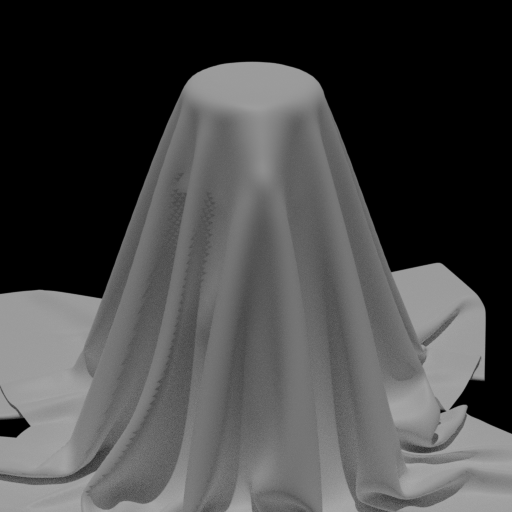
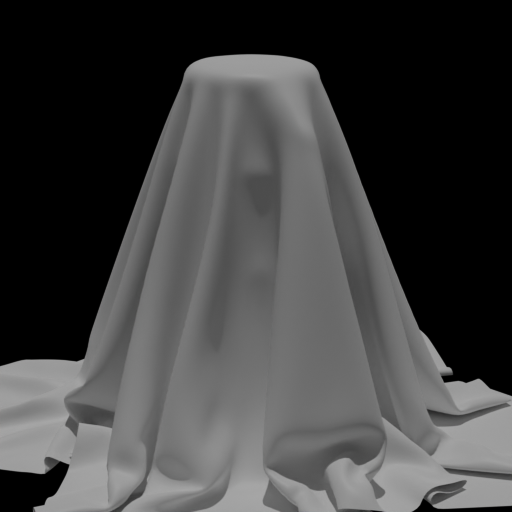
Managed to get a first working version of vertex color

Changed region(s): [[0.0, 0.0938, 1.0, 1.0], [0.0, 0.7812, 0.0938, 0.875], [0.2812, 0.2812, 0.3125, 0.3438]]

diff --git a/part2/scripts/create_rendered_image.py b/part2/scripts/create_rendered_image.py
@@ -5,9 +5,9 @@ import math
 import random
 
 # Path to your OBJ file
-obj_path = 'D:/programmierte_programme/githubworkspace/comp_visual_perception_ws_23_24/part2/files/distance_mesh/2.obj'
-export_path = 'D:/programmierte_programme/githubworkspace/comp_visual_perception_ws_23_24/part2/files/images_cloth/2.png'
-is_distance_mesh = False
+obj_path = 'D:/programmierte_programme/githubworkspace/comp_visual_perception_ws_23_24/part2/files/distance_mesh/9.obj'
+export_path = 'D:/programmierte_programme/githubworkspace/comp_visual_perception_ws_23_24/part2/files/images_cloth/9.png'
+is_distance_mesh = True
 
 # Clear existing objects
 bpy.ops.object.select_all(action='SELECT')
@@ -17,13 +17,23 @@ bpy.ops.object.delete()
 bpy.context.scene.render.film_transparent = True
 
 # Import the OBJ file
-bpy.ops.import_scene.obj(filepath=obj_path)
+bpy.ops.wm.obj_import(filepath=obj_path)
 
 # Ensure the imported object is selected and active
 imported_obj = bpy.context.selected_objects[0]
 bpy.context.view_layer.objects.active = imported_obj
 bpy.ops.object.shade_smooth()
 
+# Enable vertex color if is distance mesh
+if is_distance_mesh:
+    # create new material and add vertex color as a color attribute
+    mat = bpy.data.materials.new(name="VertexMat")
+    mat.use_nodes = True
+    mat.node_tree.nodes.new(type='ShaderNodeVertexColor')
+    mat.node_tree.nodes["Color Attribute"].layer_name = "Color"
+    mat.node_tree.links.new(mat.node_tree.nodes["Color Attribute"].outputs[0],
+                            mat.node_tree.nodes["Principled BSDF"].inputs[0])
+    imported_obj.data.materials.append(mat)
 
 # Set up rendering parameters
 scene = bpy.context.scene
@@ -32,8 +42,10 @@ scene.render.resolution_x = 512  # Set resolution width
 scene.render.resolution_y = 512  # Set resolution height
 
 if not is_distance_mesh:
-    bpy.ops.object.light_add(type='SUN', radius=2, align='WORLD', location=(150, 150, 50))
+    # TIDI
+    print(" ")
 
+bpy.ops.object.light_add(type='SUN', radius=2, align='WORLD', location=(150, 150, 0))
 
 # Create and position the camera
 camera_data = bpy.data.cameras.new(name='Camera')
@@ -42,6 +54,7 @@ scene.collection.objects.link(camera_object)
 scene.camera = camera_object
 
 camera_data.lens = 90
+
 
 def get_object_center(obj):
     local_bbox_center = sum((mathutils.Vector(b) for b in obj.bound_box), mathutils.Vector()) / 8
@@ -82,6 +95,7 @@ def look_at(obj, target):
     direction = target - obj.location
     rot_quat = direction.to_track_quat('-Z', 'Y')
     obj.rotation_euler = rot_quat.to_euler()
+
 
 # Create and position the camera (not shown for brevity)
 
